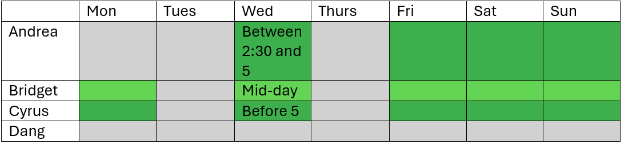
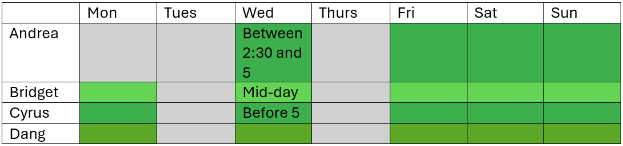
update contract with Dang's info

Changed region(s): [[0.0, 0.0, 1.0, 1.0]]

diff --git a/team_contract.md b/team_contract.md
@@ -9,7 +9,7 @@ All members agree to performing their best on the project to not inhibit team me
 * Andrea: Gain useful web development and team building experience through project work 
 * Bridget: Get an A in senior design class. Apply my ML knowledge to a new domain (agriculture). Finish with a strong project to add to my resume. 
 * Cyrus: Gain useful machine learning and software development experience through project work 
-* Dang: 
+* Dang: Gain useful computer vision skills and teamwork.
 
 ## Meeting Norms 
 * Weekly status meeting with the full team and Advisor Dr. Mohsen to discuss progress. All members should attend. 
@@ -46,3 +46,5 @@ Bridget Trout
 Cyrus Speicher 
 
 Andrea Dall'Ara 
+
+Dang Luu 
